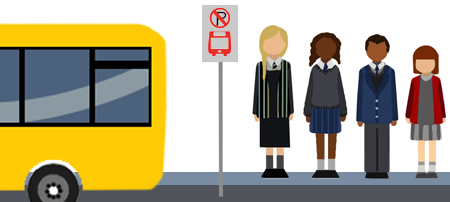
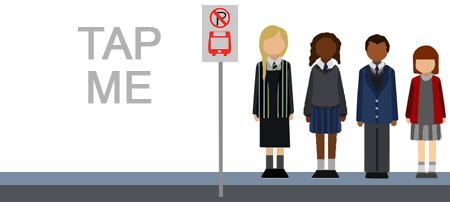
animated bus stop

diff --git a/beSafe.html b/beSafe.html
@@ -38,7 +38,7 @@
 <div class="row"> <!-- Second Row -->
 				<div class="col-xs-12">
 					<div class="thumbnail">
-					<img src="images/safe01.png">
+					<img src="images/safe01.png" onclick='this.src="images/safe01.gif"'>
 						<h4>Stand back from the road and wait till the bus has stopped before getting on/ off</h4>
 					</div>
 				</div>
